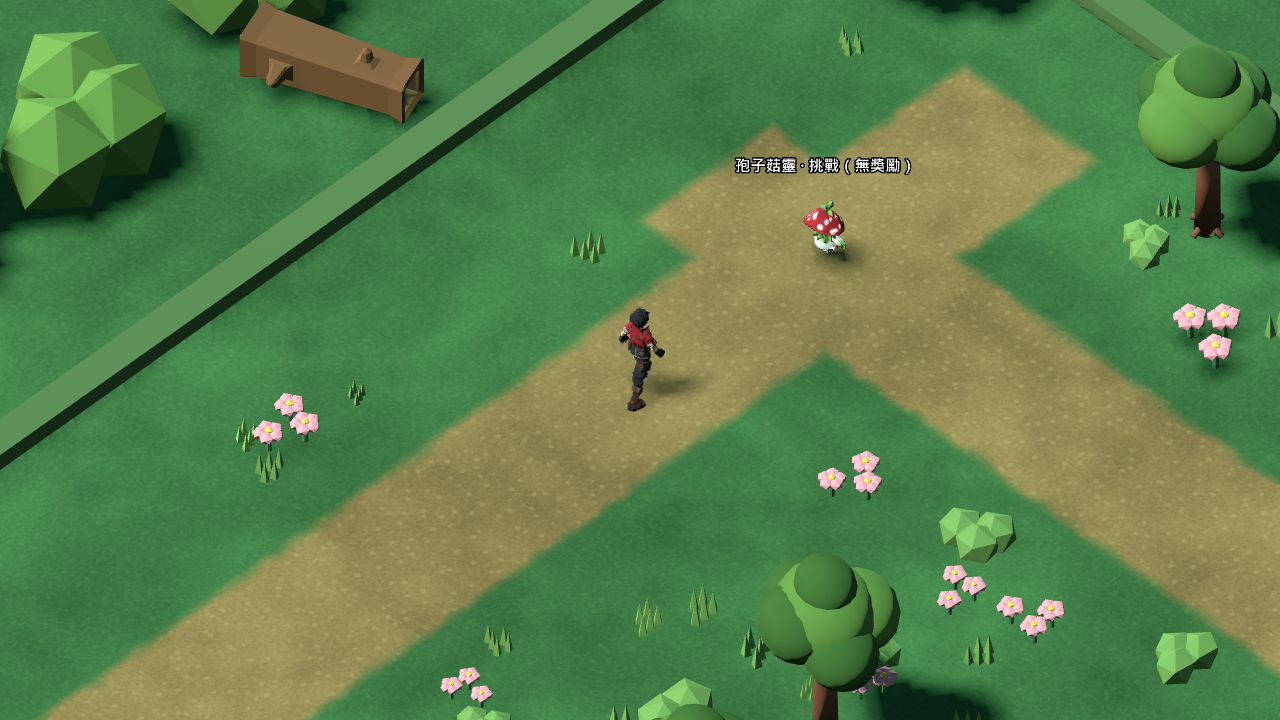
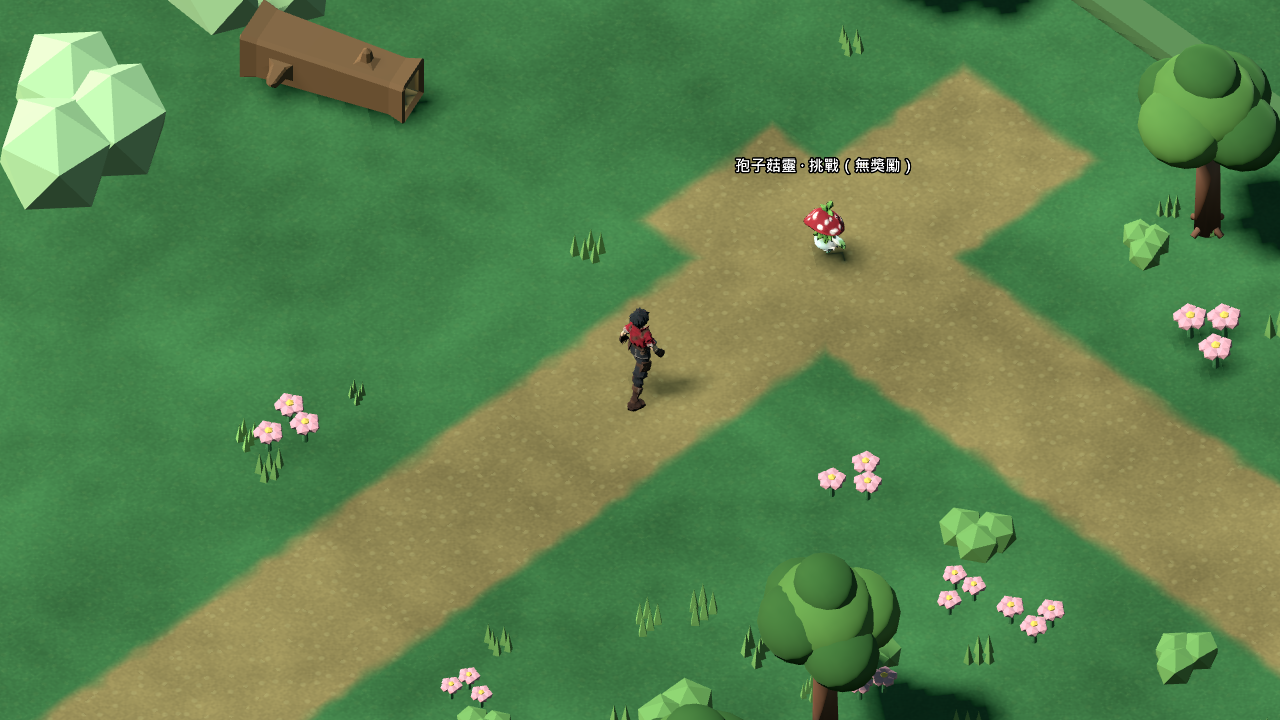
Remove forest boundary stripes and blend ground edges

Changed region(s): [[0.0, 0.0, 0.5312, 0.6417], [0.0, 0.0306, 0.1562, 0.3972], [0.125, 0.0, 0.2812, 0.0917]]

diff --git a/docs/FOREST_ROUTE_SURFACES_REPORT.md b/docs/FOREST_ROUTE_SURFACES_REPORT.md
@@ -7,19 +7,19 @@
 ## 實際驗收
 
 - Godot `4.7.2.stable.official.ed1daf0bf`，Windows 原生圖形模式。
-- `tests/forest_visual_finish_test.gd --output=user://scene_surface_review_20261026`：33 項、0 失敗。中央主線與外圈以跑步通過；中央路線反向步行通過；停止後角色落地。九個路面均使用共用 Shader，顯示面為貼地平面且沒有道路薄盒的直立側壁。
+- `tests/forest_visual_finish_test.gd --output=user://forest_edge_surface_review_20261026final2`：34 項、0 失敗。中央主線與外圈以跑步通過；中央路線反向步行通過；停止後角色落地。九個路面均使用共用 Shader，顯示面為貼地平面且沒有道路薄盒的直立側壁。
 - `./tools/godot.ps1 -Mode VisualReferenceStory`：68 項、0 失敗。
 - `./tools/godot.ps1 -Mode TestReferenceStoryReload`：7 項、0 失敗，含獨立程序讀取既有完成存檔及隊伍／任務／金幣／裝備／獎勵帳本。
 - `./tools/godot.ps1 -Mode Check`：完成專案匯入與編輯器載入，沒有載入錯誤。
-- 原森林場景的 37 個碰撞形狀、互動目標及出生點仍由既有森林驗收基線覆蓋；本輪無物理資源變更。
+- 原森林場景的碰撞形狀、互動目標及出生點保持原樣；本輪只隱藏四面邊界碰撞牆的可見方盒，並用四片貼地平面接續草地。碰撞與邊界仍在，沒有物理資源變更。
 
 ## 畫面與限制
 
-原生圖形截圖保存於 `source_assets/forest_route_surfaces_20261026/evidence/`。中央路線交界及舊薄盒路面側邊已消除，步行／奔跑地面顏色一致。截圖仍可看到穿過左上畫面的地形高差黑色邊線，這是地形側面／相鄰邊界，不是本輪路面幾何，尚未修整；外圈仍是既有平坦配置。本輪只修道路呈現，不宣稱完整森林地形或全部場景美術完成。
+原生圖形截圖保存於 `source_assets/forest_route_surfaces_20261026/evidence/`。中央路線交界、舊薄盒路面側邊與邊界方盒形成的黑色直線已消除；四片外圍平面與主地面略微重疊，使用相同地表 Shader。新截圖同角度確認黑線不再可見，行走路線／碰撞保留。外圈仍是既有平坦配置；本輪不宣稱完整森林地形或全部場景美術完成。
 
 ## 效能觀測
 
-原生視窗路線樣本 2627 幀：平均 16.718 ms、P95 16.708 ms、P99 16.766 ms、最大 193.075 ms；路線樣本 Draw Calls 72–503，引擎靜態記憶體 120.7–120.8 MiB。最大幀尖峰包含短程場景／截圖工作負載，這不是 30 分鐘長測、GPU 幀時間或系統 RSS 驗收，也不代表整體效能認證。
+原生視窗路線樣本 2628 幀：平均 16.730 ms、P95 16.750 ms、P99 16.846 ms、最大 221.468 ms；路線樣本 Draw Calls 65–496，引擎靜態記憶體 120.7–120.8 MiB。最大幀尖峰包含短程場景／截圖工作負載，這不是 30 分鐘長測、GPU 幀時間或系統 RSS 驗收，也不代表整體效能認證。
 
 ## 變更範圍
 

diff --git a/docs/TASKS.md b/docs/TASKS.md
@@ -1,9 +1,10 @@
 # 任務與進度
 
-## 2026-10-26 — 森林路面接縫修整
+## 2026-10-26 — 森林路面與外圍黑邊修整
 
-- 中央路與六段擴展支線統一為九個貼地平面及共享草土 Shader；新增中央主路跑步、外圈跑步、主路徒步返回的原生圖形路線檢查。
-- 森林路線 33／0、序章故事 68／0、新程序讀檔 7／0、Godot 匯入完成。仍可見的黑線為地形高差側面，明列為未完成；未宣稱全場景驗收。[本輪報告與畫面](FOREST_ROUTE_SURFACES_REPORT.md)。
+- 中央／支線道路、四片外圍地表統一為貼地顯示面；隱藏邊界牆可見方盒以移除地表黑線，碰撞牆保持啟用。
+- 原生森林路線 34／0；序章 68／0、新程序讀檔 7／0；同視角新畫面確認黑邊消失。[報告與證據](FOREST_ROUTE_SURFACES_REPORT.md)。
+- 外圈地形仍平坦，完整美術未完成；人工驗收維持暫停。
 
 ## 2026-10-26 — 低語森林畫面整合
 

diff --git a/docs/CHANGELOG.md b/docs/CHANGELOG.md
@@ -1,9 +1,8 @@
 # 變更紀錄
 
-## 2026-10-26 — 森林道路平面接縫
+## 2026-10-26 — 森林外圍地表黑邊修整
 
-- 中央與擴展道路以九個貼地平面共用草土 Shader，消除薄盒路緣直立面及中央／支線材質差異；原碰撞、劇情、互動與存檔保持不變。
-- 33項森林畫面／路線、68項序章、7項獨立程序存檔讀取通過。地形高差黑邊仍待另行修整。[證據與限制](FOREST_ROUTE_SURFACES_REPORT.md)。
+- 隱藏外圍碰撞牆的顯示網格，保留碰撞；增加四片共享地表 Shader 的貼地平面，遮住地面轉接黑線。森林路面 34／0，畫面確認黑邊移除。[證據與限制](FOREST_ROUTE_SURFACES_REPORT.md)。
 
 ## 2026-10-26 — 低語森林視覺修整
 
